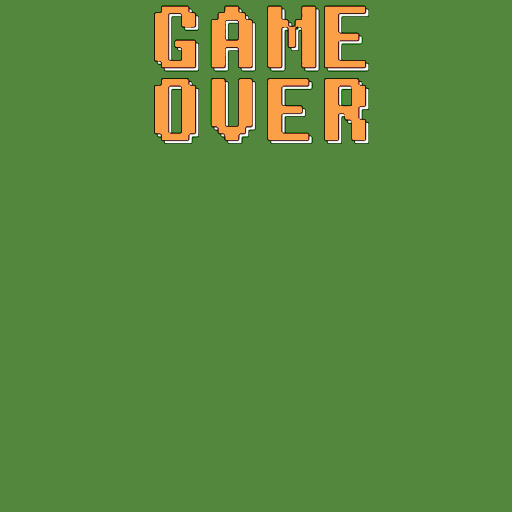
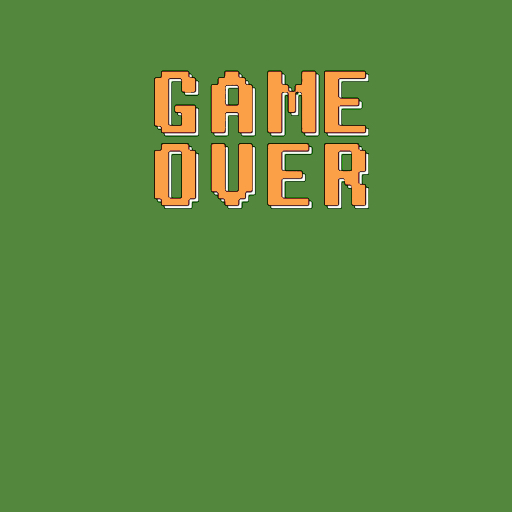
Adjust background image to fit the screen

Changed region(s): [[0.2812, 0.0, 0.7188, 0.4062]]

diff --git a/flappy-bird.js b/flappy-bird.js
@@ -457,17 +457,17 @@ export class Bird extends Scene {
             //draw game end scene
             program_state.set_camera(this.sideview_cam_pos);
             this.sideview = true;
-            this.shapes.square.draw(context, program_state, matrix_transform.times(Mat4.translation(0, 7, 0))
+            this.shapes.square.draw(context, program_state, matrix_transform.times(Mat4.translation(0, 6, 0))
                                                                             .times(Mat4.rotation(Math.PI / 2 * 3, 0, 1, 0))
-                                                                            .times(Mat4.scale(20, 20, 1)), this.materials.game_end);
+                                                                            .times(Mat4.scale(28, 28, 1)), this.materials.game_end);
 
-            const highscore_model_transform = matrix_transform.times(Mat4.translation(-3, 12, -12))
+            const highscore_model_transform = matrix_transform.times(Mat4.translation(-3, 9, -12))
                                                               .times(Mat4.rotation(3 * Math.PI / 2, 0, 1, 0));
             const score_string = "Highest score: " + this.highest_score.toString();
             this.shapes.text.set_string(score_string, context.context);
             this.shapes.text.draw(context, program_state, highscore_model_transform, this.materials.text_image);  
             
-            const replay_model_transform = matrix_transform.times(Mat4.translation(-3, 8, -10))
+            const replay_model_transform = matrix_transform.times(Mat4.translation(-3, 6, -10))
                                                            .times(Mat4.rotation(3 * Math.PI / 2, 0, 1, 0));
             const replay_string = "Replay with \"n\"";
             this.shapes.text.set_string(replay_string, context.context);
